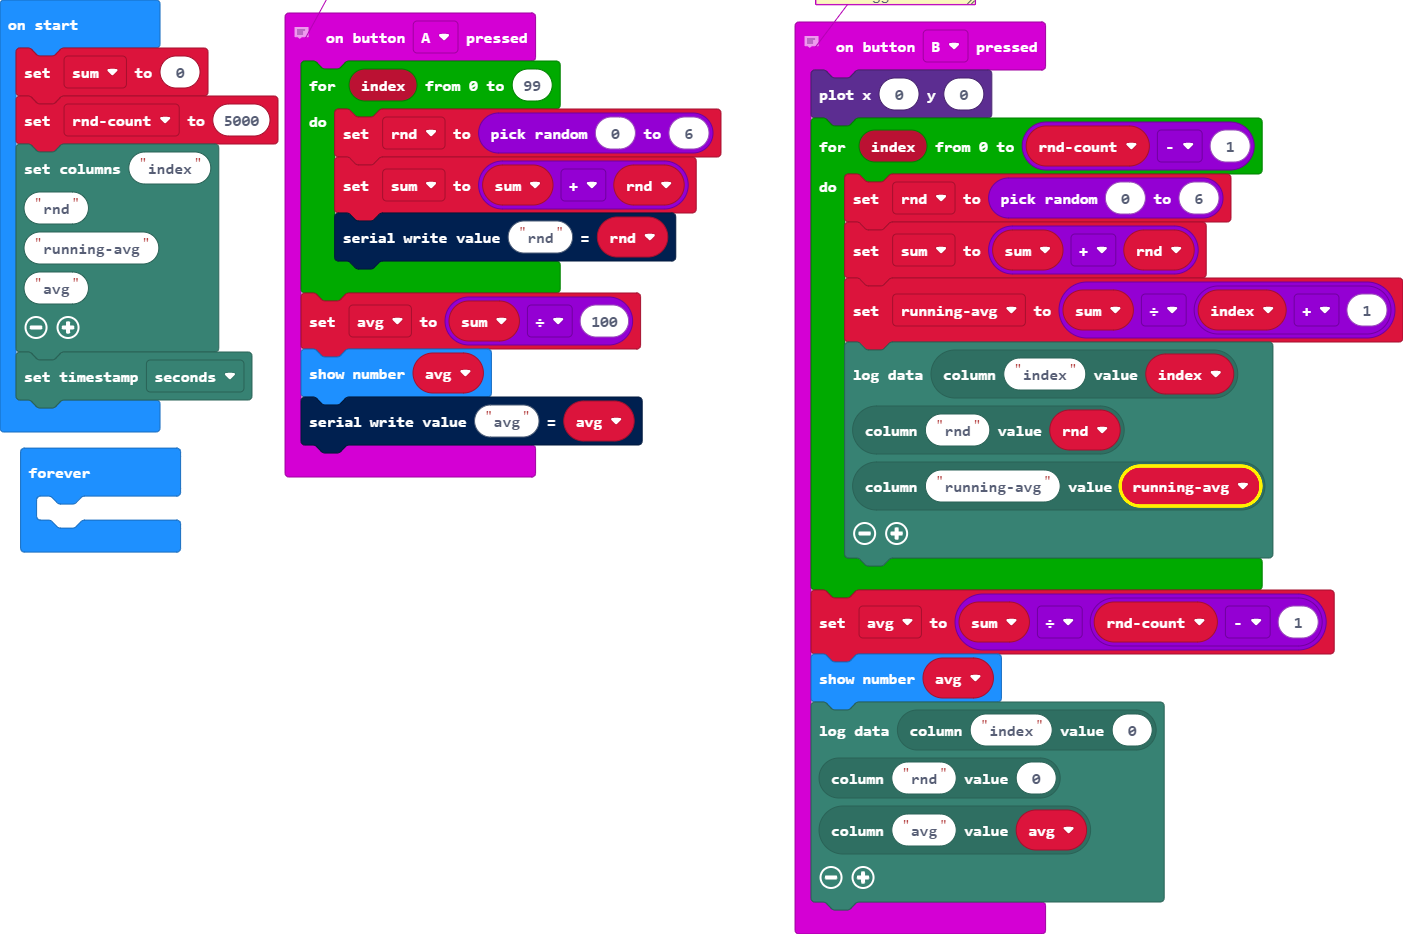
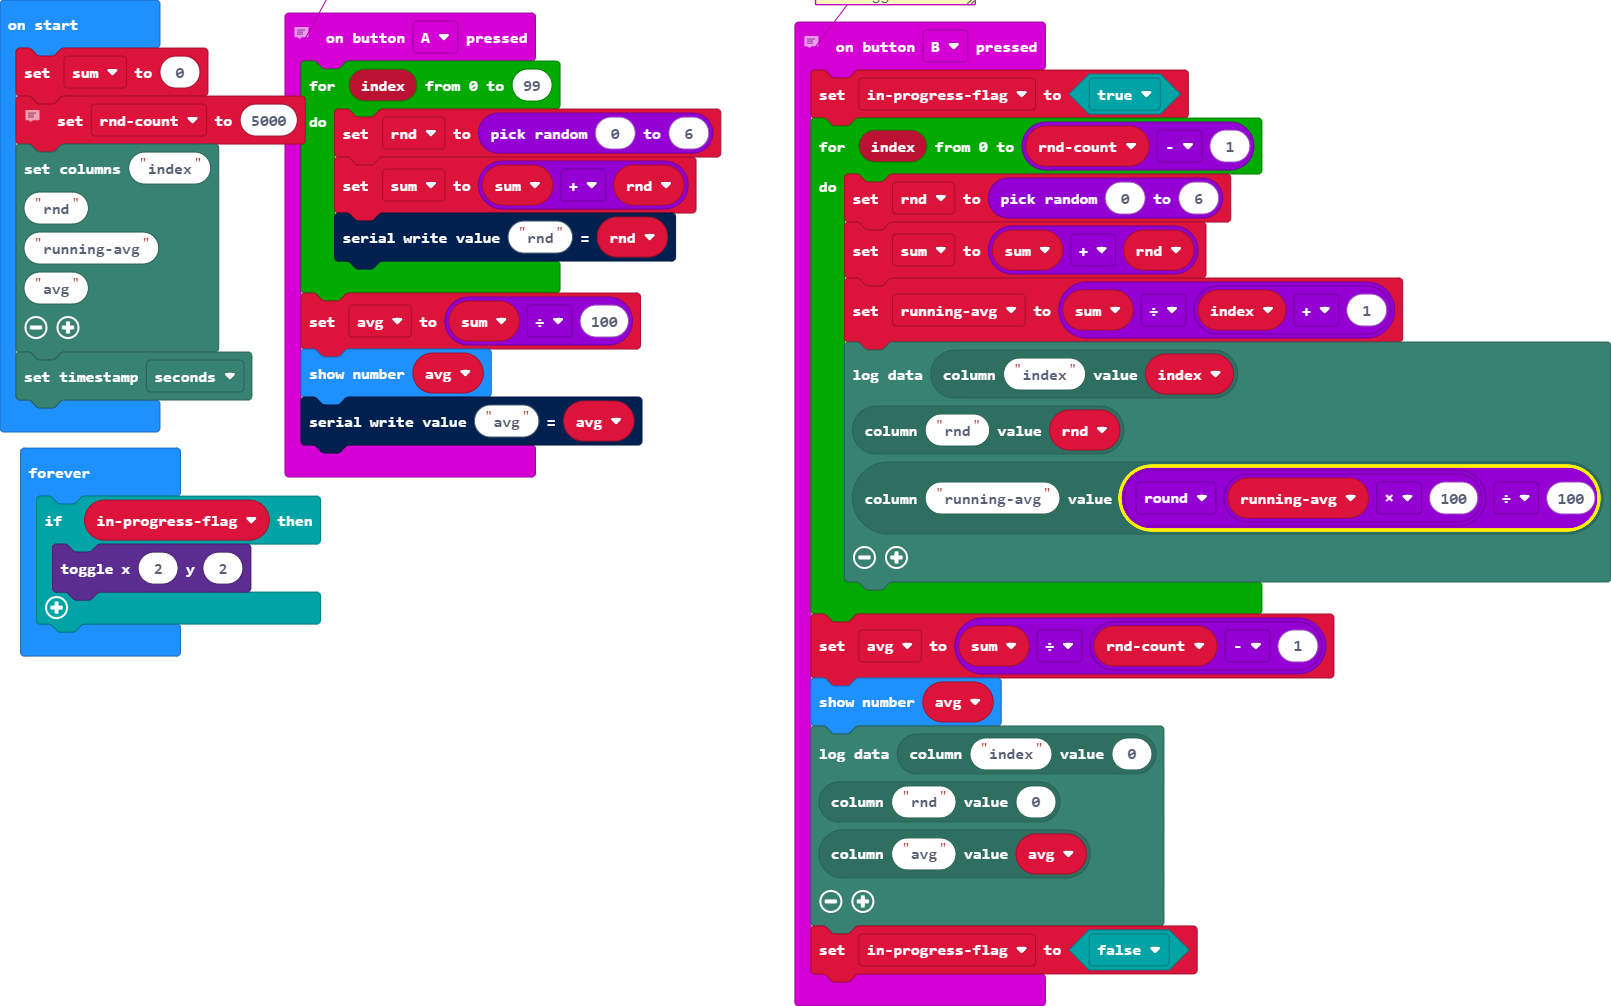
Update main.blocks, main.ts

diff --git a/main.ts b/main.ts
@@ -11,7 +11,7 @@ input.onButtonPressed(Button.A, function () {
 })
 // Log to SD card with DataLogger
 input.onButtonPressed(Button.B, function () {
-    led.plot(0, 0)
+    inprogressflag = true
     for (let index = 0; index <= rndcount - 1; index++) {
         rnd = randint(0, 6)
         sum = sum + rnd
@@ -19,7 +19,7 @@ input.onButtonPressed(Button.B, function () {
         datalogger.log(
         datalogger.createCV("index", index),
         datalogger.createCV("rnd", rnd),
-        datalogger.createCV("running-avg", runningavg)
+        datalogger.createCV("running-avg", Math.round(runningavg * 100) / 100)
         )
     }
     avg = sum / (rndcount - 1)
@@ -29,13 +29,16 @@ input.onButtonPressed(Button.B, function () {
     datalogger.createCV("rnd", 0),
     datalogger.createCV("avg", avg)
     )
+    inprogressflag = false
 })
 let runningavg = 0
+let inprogressflag = false
 let avg = 0
 let rnd = 0
 let rndcount = 0
 let sum = 0
 sum = 0
+// that much data can fit on the SD card
 rndcount = 5000
 datalogger.setColumnTitles(
 "index",
@@ -45,5 +48,7 @@ datalogger.setColumnTitles(
 )
 datalogger.includeTimestamp(FlashLogTimeStampFormat.Seconds)
 basic.forever(function () {
-	
+    if (inprogressflag) {
+        led.toggle(2, 2)
+    }
 })
